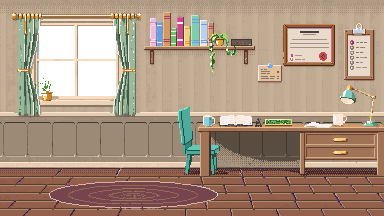
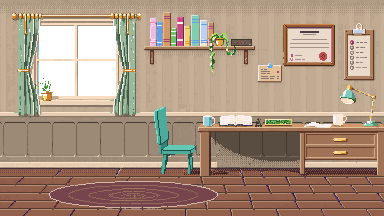
fix: chair moved out from under the desk; Storm naps on its seat
The chair slides one wainscot period left so its whole seat shows (wall refilled from the
same pattern to the left, the seat hidden by the desk leg rebuilt). The Lab header crop
widens to frame the chair, with Storm curled on the cushion.

Changed region(s): [[0.375, 0.5, 0.5938, 0.8056]]

diff --git a/platform/src/app/lab/page.tsx b/platform/src/app/lab/page.tsx
@@ -23,8 +23,8 @@ export default async function Lab() {
           </p>
         </div>
       </div>
-      <RoomVignette corner="lab" front={[[196, 124, 18, 9], [200, 128, 12, 50]]}>
-        <At x={168} y={112}>
+      <RoomVignette corner="lab">
+        <At x={159} y={111}>
           <div className="storm">
             <StormSprite animation="nap" size={40} />
             <span className="sleep-mark">z Z</span>

diff --git a/platform/src/components/RoomVignette.tsx b/platform/src/components/RoomVignette.tsx
@@ -4,7 +4,7 @@ import manifest from "../../public/sprites/manifest.json";
 // A close-up of one corner of the homepage room (same LibreSprite layers), used as the header art
 // of the page that corner leads to. Crops are in room pixels (the room is 384x216).
 const CROPS = {
-  lab: [150, 92, 150, 72],
+  lab: [128, 92, 162, 72],
   bench: [240, 80, 144, 44],
   awards: [256, 4, 128, 39],
   cv: [236, 14, 148, 45],

diff --git a/platform/scripts/room.py b/platform/scripts/room.py
@@ -437,8 +437,46 @@ def curtains(out, h, s):
         reg[pink] = ramp[idx[pink]]
     return out
 
+CHAIR_BOX, LEG_X, CHAIR_SHIFT = (174, 100, 226, 180), (200, 212), 24
+
+def move_chair(src):
+    """Slide the chair one wainscot period (24px) left, out from under the desk, so its whole seat
+    shows (Storm naps on it). The seat hidden behind the desk leg is rebuilt from its visible edges;
+    the wall behind the old spot is copied from the same rows 48px to the left."""
+    x0, y0, x1, y1 = CHAIR_BOX
+    rgb = src[..., :3].astype(int)
+    r, g, b = rgb[..., 0], rgb[..., 1], rgb[..., 2]
+    teal = (g > r + 15) & (b > r) & (src[..., 3] > 0)
+    region = np.zeros(src.shape[:2], bool)
+    region[y0:y1, x0:LEG_X[0]] = True               # backrest and front of the seat
+    region[140:y1, LEG_X[0]:x1] = True              # seat end and back legs (not the mug on the desk)
+    leg = np.zeros_like(region); leg[:, LEG_X[0]:LEG_X[1]] = True
+    chair = teal & region & ~leg
+    near = np.zeros_like(chair)                         # the chair's dark outline
+    for dy, dx in ((1, 0), (-1, 0), (0, 1), (0, -1)):
+        near |= np.roll(np.roll(chair, dy, 0), dx, 1)
+    chair |= near & region & ~leg & (rgb.sum(-1) < 160)
+    layer = np.zeros_like(src); layer[chair] = src[chair]
+    for y in range(y0, y1):                             # rebuild the seat behind the desk leg
+        if chair[y, LEG_X[0] - 1] and chair[y, LEG_X[1]:LEG_X[1] + 3].any():
+            layer[y, LEG_X[0]:LEG_X[1]] = src[y, LEG_X[0] - 2]
+    out = src.copy()
+    mx = rgb.max(-1); mn = rgb.min(-1)
+    sat = (mx - mn) / np.maximum(mx, 1)
+    wall_like = (sat < 0.38) & (r >= b) & ~teal                # sand wall / wainscot, not curtain or window
+    leftover = teal & region & ~chair
+    for y, x in zip(*np.nonzero(chair | leftover)):
+        for k in (1, 2, 3, 4, 5):                               # whole wainscot periods to the left (plain wall)
+            sx = x - 24 * k
+            if 0 <= sx < src.shape[1] and not chair[y, sx] and (wall_like[y, sx] or y >= 166):
+                out[y, x] = src[y, sx]; break
+    moved = np.roll(layer, -CHAIR_SHIFT, axis=1)
+    m = moved[..., 3] > 0
+    out[m] = moved[m]
+    return out
+
 def painted_layers():
-    src = recolour(np.array(Image.open(PAINTED).convert("RGBA")))
+    src = move_chair(recolour(np.array(Image.open(PAINTED).convert("RGBA"))))
     room_l, day, night = src.copy(), new(), new()
     for (x0, y0, x1, y1) in PANES:
         for y in range(y0, y1 + 1):
